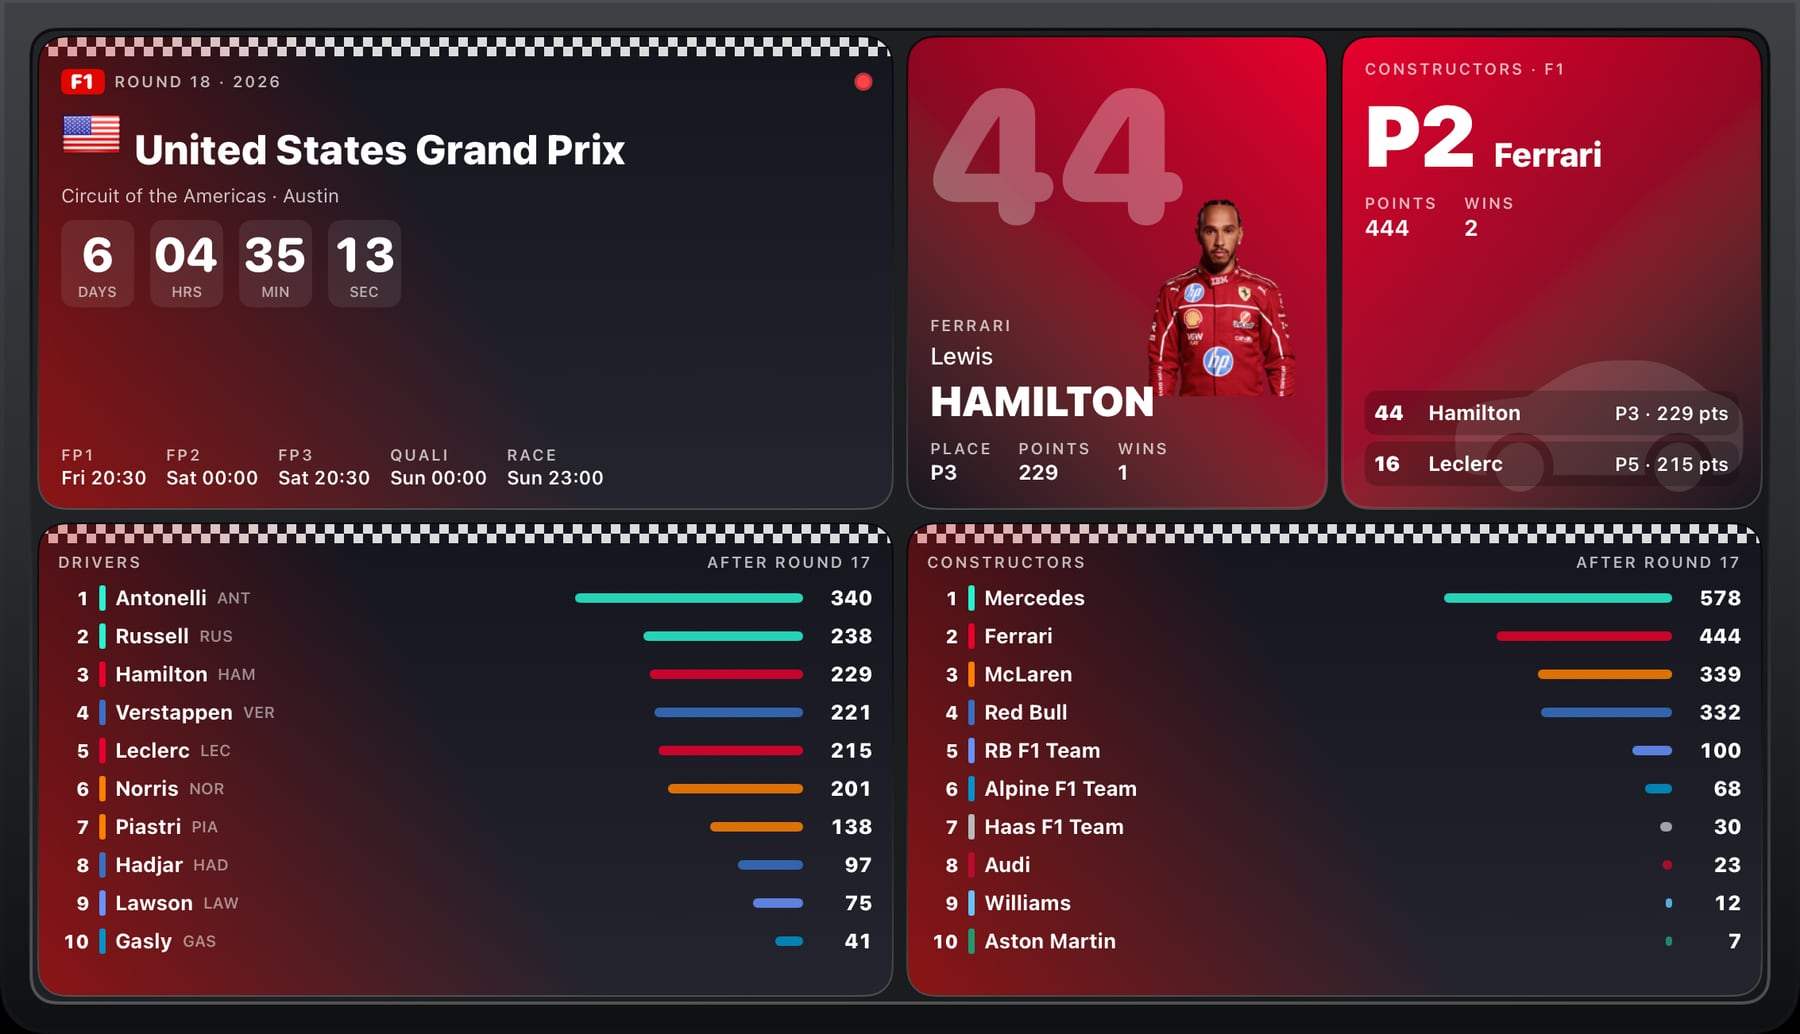
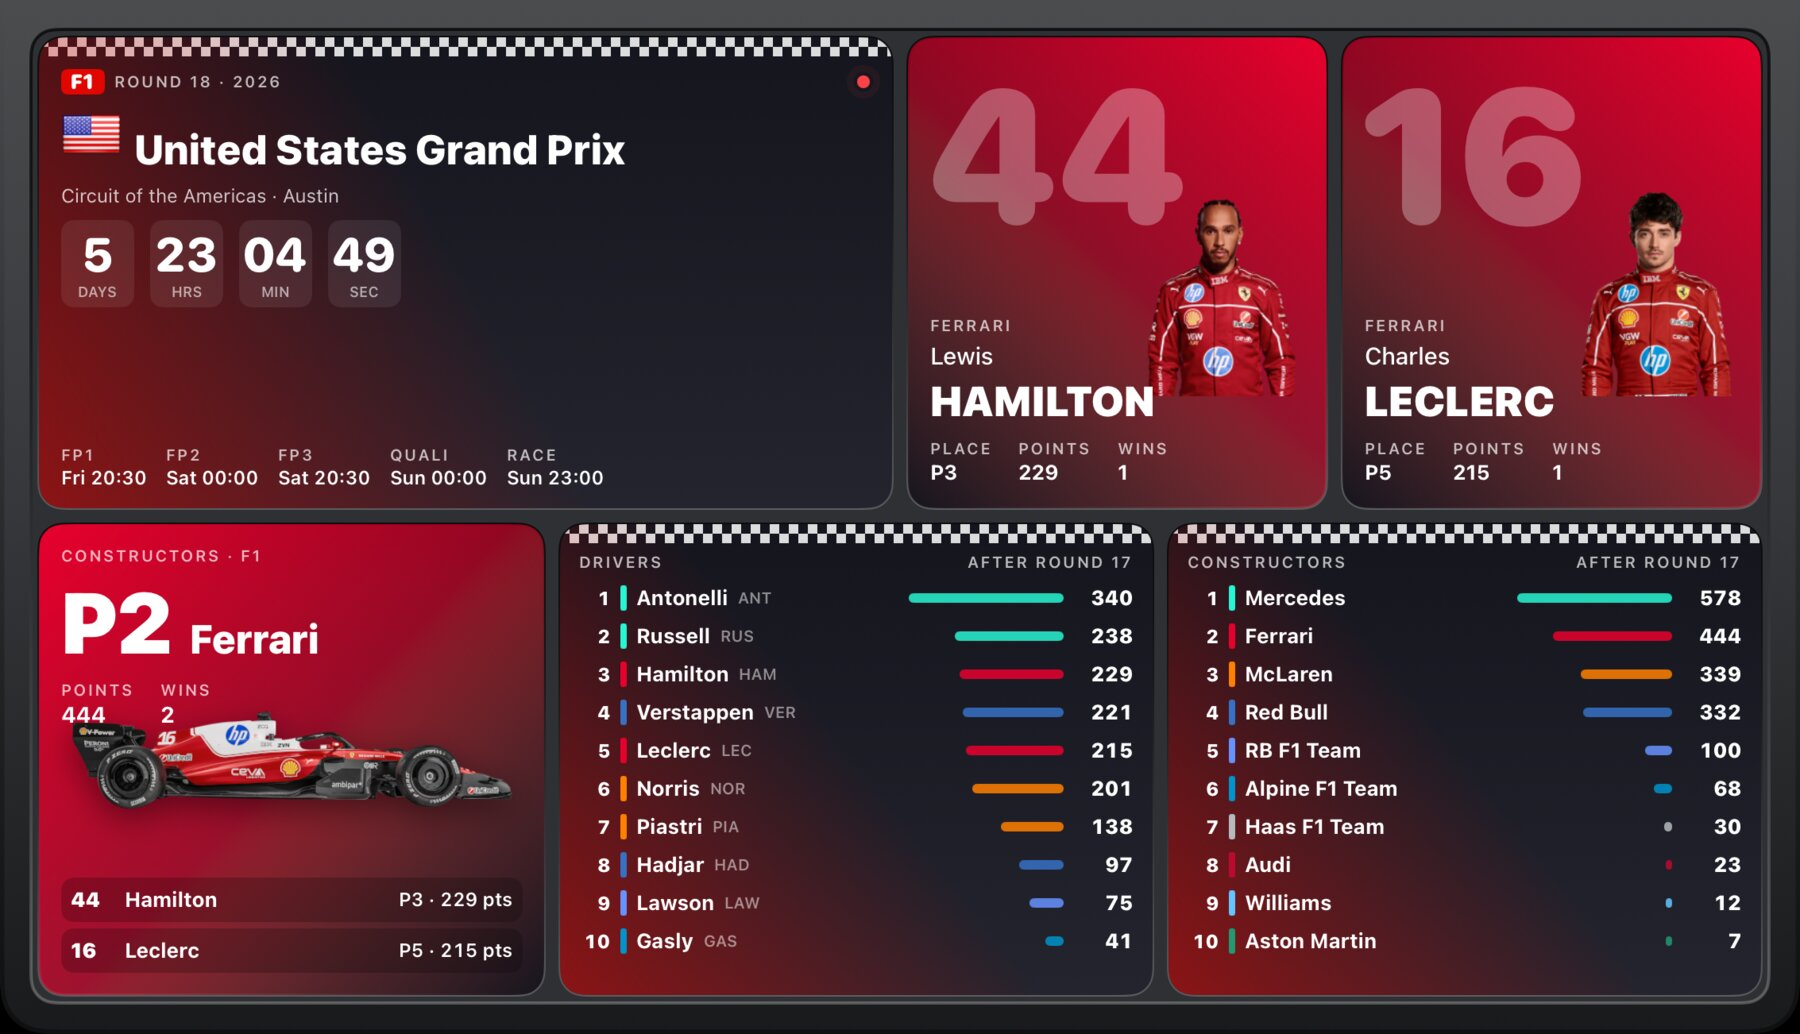
Sports scores 2.1.0: around-the-world cover first; F1 with Leclerc's card and Ferrari's car. Usage stats: keys & themes cover first. MCP: install.sh from this repo replaces npx (#9)

diff --git a/mcp/src/index.js b/mcp/src/index.js
@@ -1,6 +1,6 @@
 #!/usr/bin/env node
 // The iMacroPad community MCP server (stdio): the plugin format, scaffolds for plugins, themes and layouts,
-// the validator, and how to submit to the catalog. Run: npx -y @imacropad/mcp   or   node community/mcp/src/index.js
+// the validator, and how to submit to the catalog. Install: curl -fsSL https://raw.githubusercontent.com/iMacroPad/community/main/mcp/install.sh | sh   or run: node mcp/src/index.js
 import { readFileSync } from 'node:fs';
 import { join, resolve } from 'node:path';
 import { McpServer } from '@modelcontextprotocol/sdk/server/mcp.js';

diff --git a/mcp/README.md b/mcp/README.md
@@ -25,20 +25,22 @@ JavaScript port runs and the report says so; the catalog runs the real one on ev
 
 ## Install
 
-Needs Node 20 or later.
-
-**Claude Code**
+Needs Node 20 or later. One line, from this repository:
 
 ```sh
-claude mcp add imacropad -- npx -y @imacropad/mcp
+curl -fsSL https://raw.githubusercontent.com/iMacroPad/community/main/mcp/install.sh | sh
 ```
 
-**Claude Desktop**: Settings ▸ Developer ▸ Edit Config, then in `claude_desktop_config.json`:
+[`install.sh`](install.sh) puts the server in `~/.imacropad/mcp` (`IMACROPAD_MCP_DIR` to change it), installs its two
+packages and, when the `claude` command is there, adds it to Claude Code for every project. Run it again to update.
+
+**Claude Desktop**: Settings ▸ Developer ▸ Edit Config, then in `claude_desktop_config.json` (the script prints this
+block with your own path):
 
 ```json
 {
   "mcpServers": {
-    "imacropad": { "command": "npx", "args": ["-y", "@imacropad/mcp"] }
+    "imacropad": { "command": "node", "args": ["/Users/you/.imacropad/mcp/src/index.js"] }
   }
 }
 ```
@@ -50,17 +52,16 @@ claude mcp add imacropad -- npx -y @imacropad/mcp
 ```json
 {
   "servers": {
-    "imacropad": { "type": "stdio", "command": "npx", "args": ["-y", "@imacropad/mcp"] }
+    "imacropad": { "type": "stdio", "command": "node", "args": ["/Users/you/.imacropad/mcp/src/index.js"] }
   }
 }
 ```
 
-**From a clone** (until the package is on npm, or to change it):
+**From a clone** (to change it):
 
 ```sh
-cd community/mcp && npm install          # in the catalog's own repository the folder is mcp/
-node community/mcp/src/index.js          # what an MCP client starts; it talks over stdin and stdout
-claude mcp add imacropad -- node "$PWD/community/mcp/src/index.js"
+cd mcp && npm install
+claude mcp add imacropad -- node "$PWD/src/index.js"
 ```
 
 ## The skill

diff --git a/items/community.sports-scores/README.md b/items/community.sports-scores/README.md
@@ -5,8 +5,8 @@ cards, tennis rankings and Formula 1. Any sport and any country.
 
 Six ready layouts, each a page of the app's own sports panels:
 
-- **Formula 1**: the next race with a live countdown and every session time in your time zone, a driver card
-  (Lewis Hamilton), a team card (Ferrari), and the drivers' and constructors' standings.
+- **Formula 1**: the next race with a live countdown and every session time in your time zone, driver cards
+  with their photos (Lewis Hamilton, Charles Leclerc), a team card with the car (Ferrari), and the drivers' and constructors' standings.
 - **Football · Süper Lig**: Galatasaray's club card with the next and last match, a countdown to the next match,
   the last result as a scoreboard, the full league table and a player card (Victor Osimhen).
 - **Football · Europe**: full Premier League, LaLiga and Champions League tables, and Real Madrid's card.

diff --git a/README.md b/README.md
@@ -10,7 +10,7 @@ Browse and install them at **[imacropad.app/community](https://www.imacropad.app
 - **Request**: [ask for something](../../issues/new?template=request.yml) or 👍 a request.
 - **Share yours**: [CONTRIBUTING.md](CONTRIBUTING.md).
 - **Build with AI**: the [MCP server](mcp/) gives an assistant the plugin format, starter plugins, themes and layouts,
-  and the validator (`claude mcp add imacropad -- npx -y @imacropad/mcp`); the [skill](skill/imacropad-community/)
+  and the validator (`curl -fsSL https://raw.githubusercontent.com/iMacroPad/community/main/mcp/install.sh | sh`); the [skill](skill/imacropad-community/)
   teaches it the steps. The skill as a zip: [imacropad.app/community](https://www.imacropad.app/community/#ai).
 
 Every item is data, never code, and passes four gates before it is listed: the folder rules, the app's own

diff --git a/CONTRIBUTING.md b/CONTRIBUTING.md
@@ -17,7 +17,7 @@ imacropadd plugin test your.id.imacropad-plugin.json     # also against the real
 ```
 
 **With an assistant.** The [iMacroPad MCP server](mcp/) lets Claude, Cursor or another MCP app write the file with
-you: the format, starter plugins, themes and layouts, and the same validator (`claude mcp add imacropad -- npx -y @imacropad/mcp`).
+you: the format, starter plugins, themes and layouts, and the same validator (`curl -fsSL https://raw.githubusercontent.com/iMacroPad/community/main/mcp/install.sh | sh`).
 The [skill](skill/imacropad-community/) teaches it the steps, also without the server; download it from
 [imacropad.app/community](https://www.imacropad.app/community/#ai). Whatever an assistant makes goes through the same gates,
 and you still take the screenshots on your own pad.

diff --git a/mcp/data/CONTRIBUTING.md b/mcp/data/CONTRIBUTING.md
@@ -17,7 +17,7 @@ imacropadd plugin test your.id.imacropad-plugin.json     # also against the real
 ```
 
 **With an assistant.** The [iMacroPad MCP server](mcp/) lets Claude, Cursor or another MCP app write the file with
-you: the format, starter plugins, themes and layouts, and the same validator (`claude mcp add imacropad -- npx -y @imacropad/mcp`).
+you: the format, starter plugins, themes and layouts, and the same validator (`curl -fsSL https://raw.githubusercontent.com/iMacroPad/community/main/mcp/install.sh | sh`).
 The [skill](skill/imacropad-community/) teaches it the steps, also without the server; download it from
 [imacropad.app/community](https://www.imacropad.app/community/#ai). Whatever an assistant makes goes through the same gates,
 and you still take the screenshots on your own pad.
